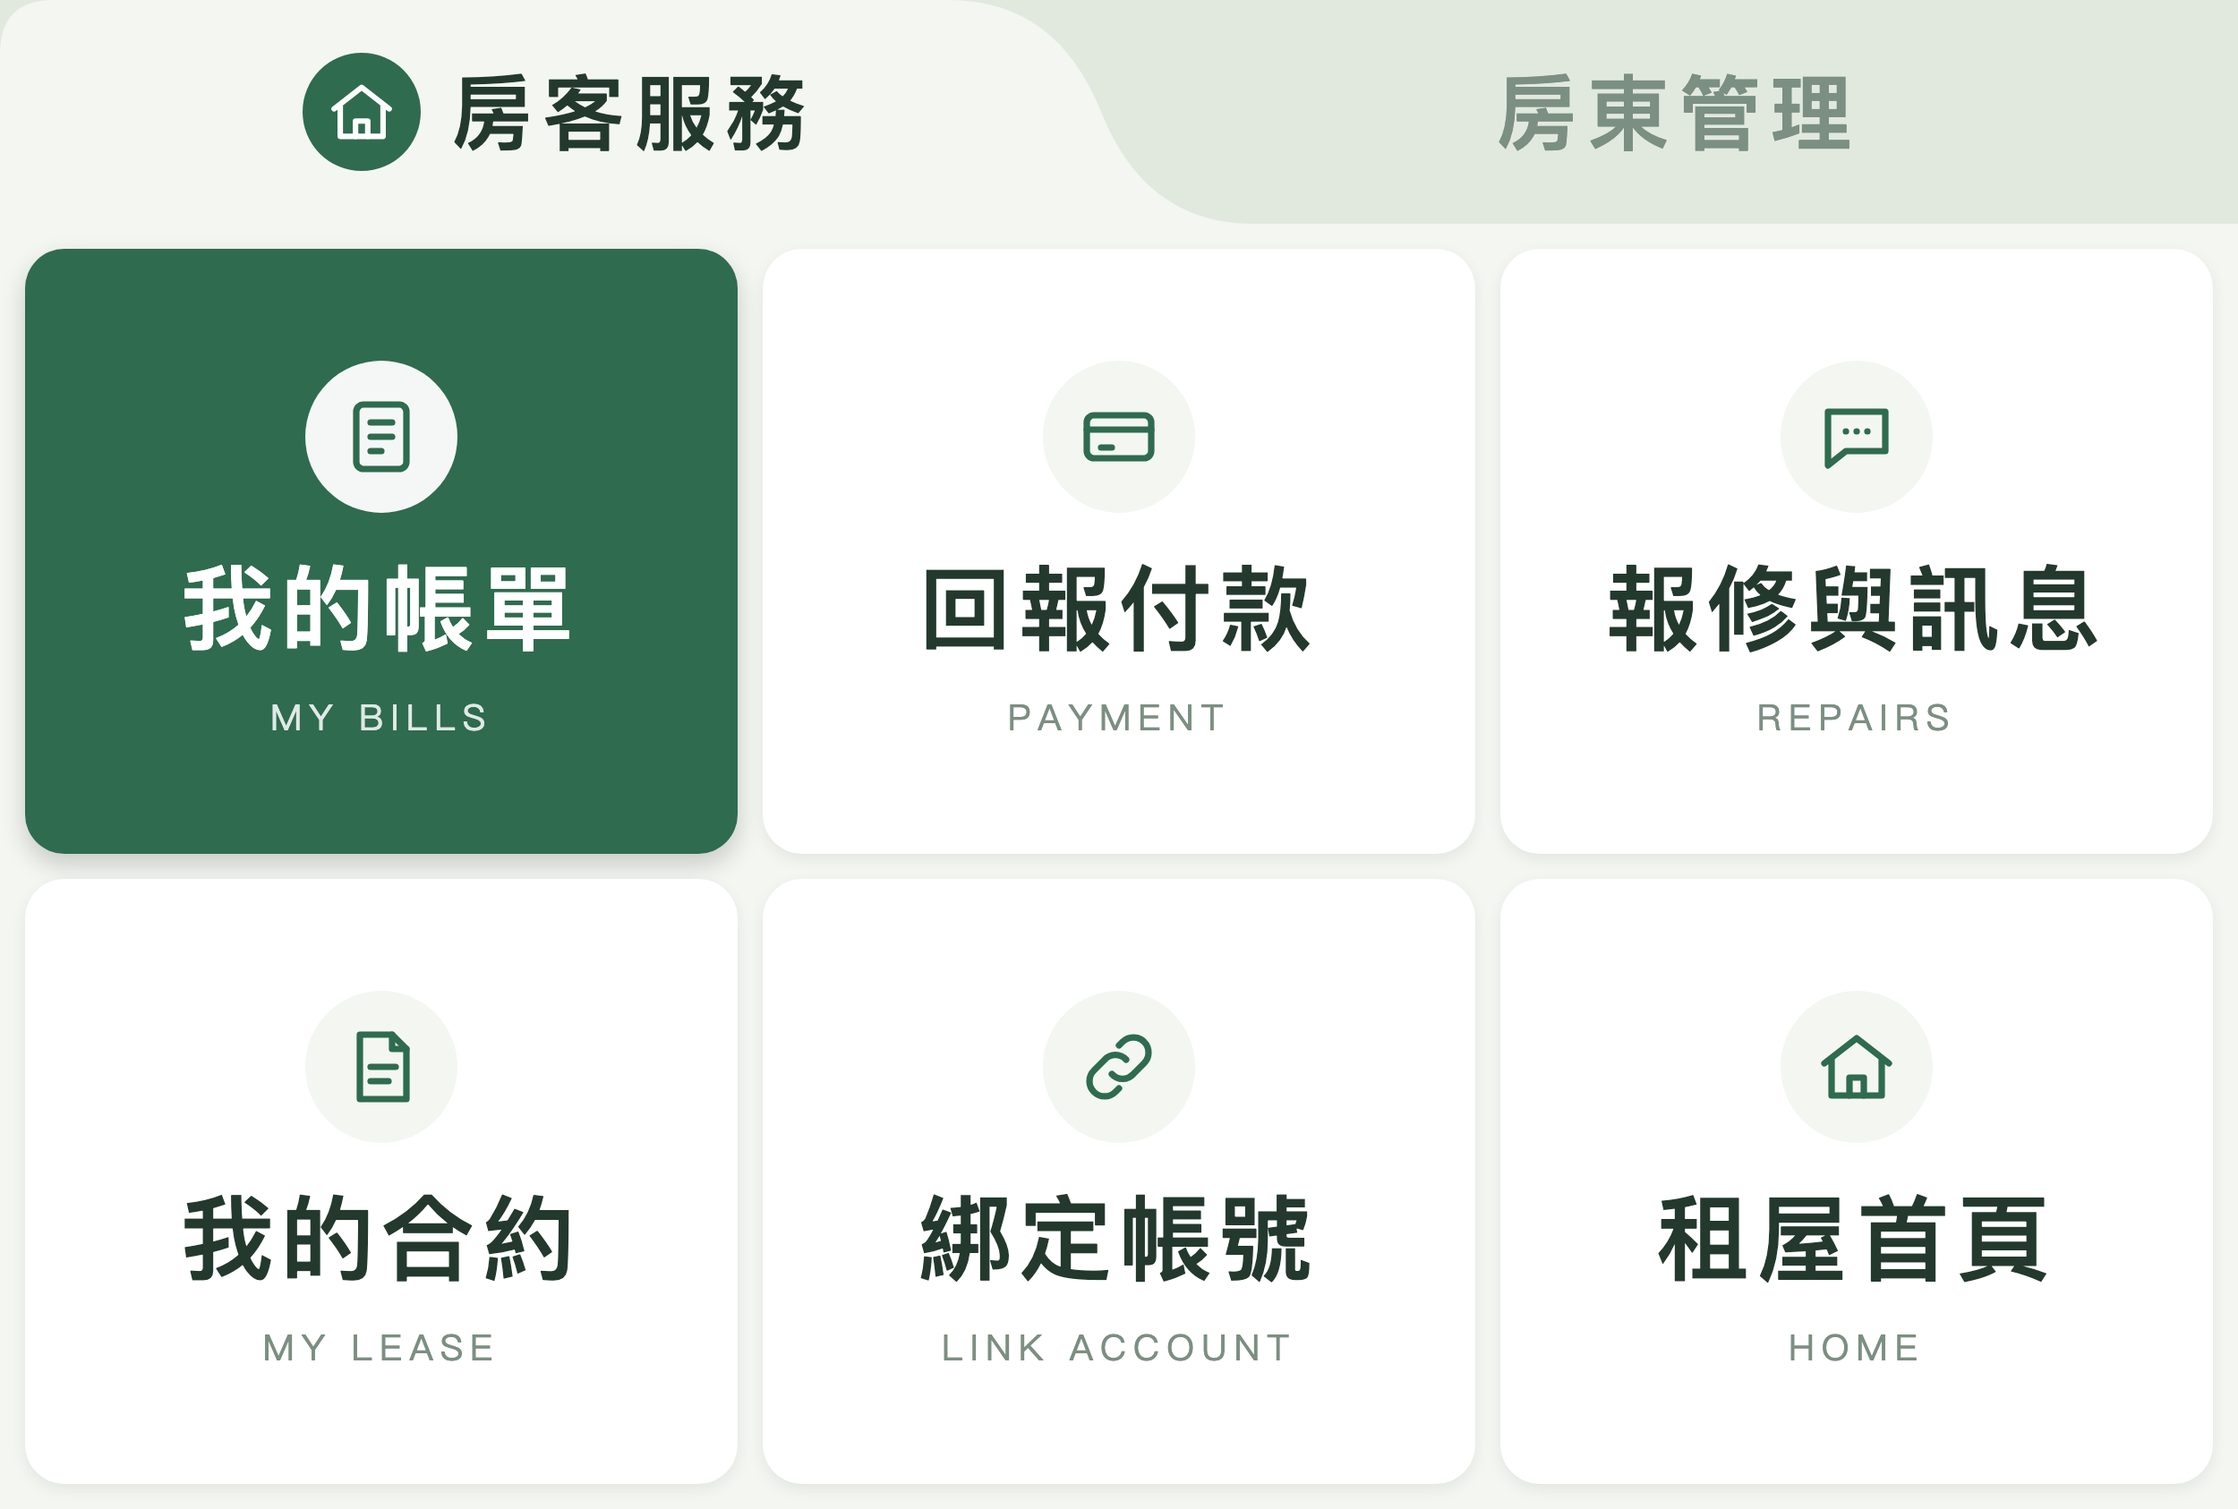
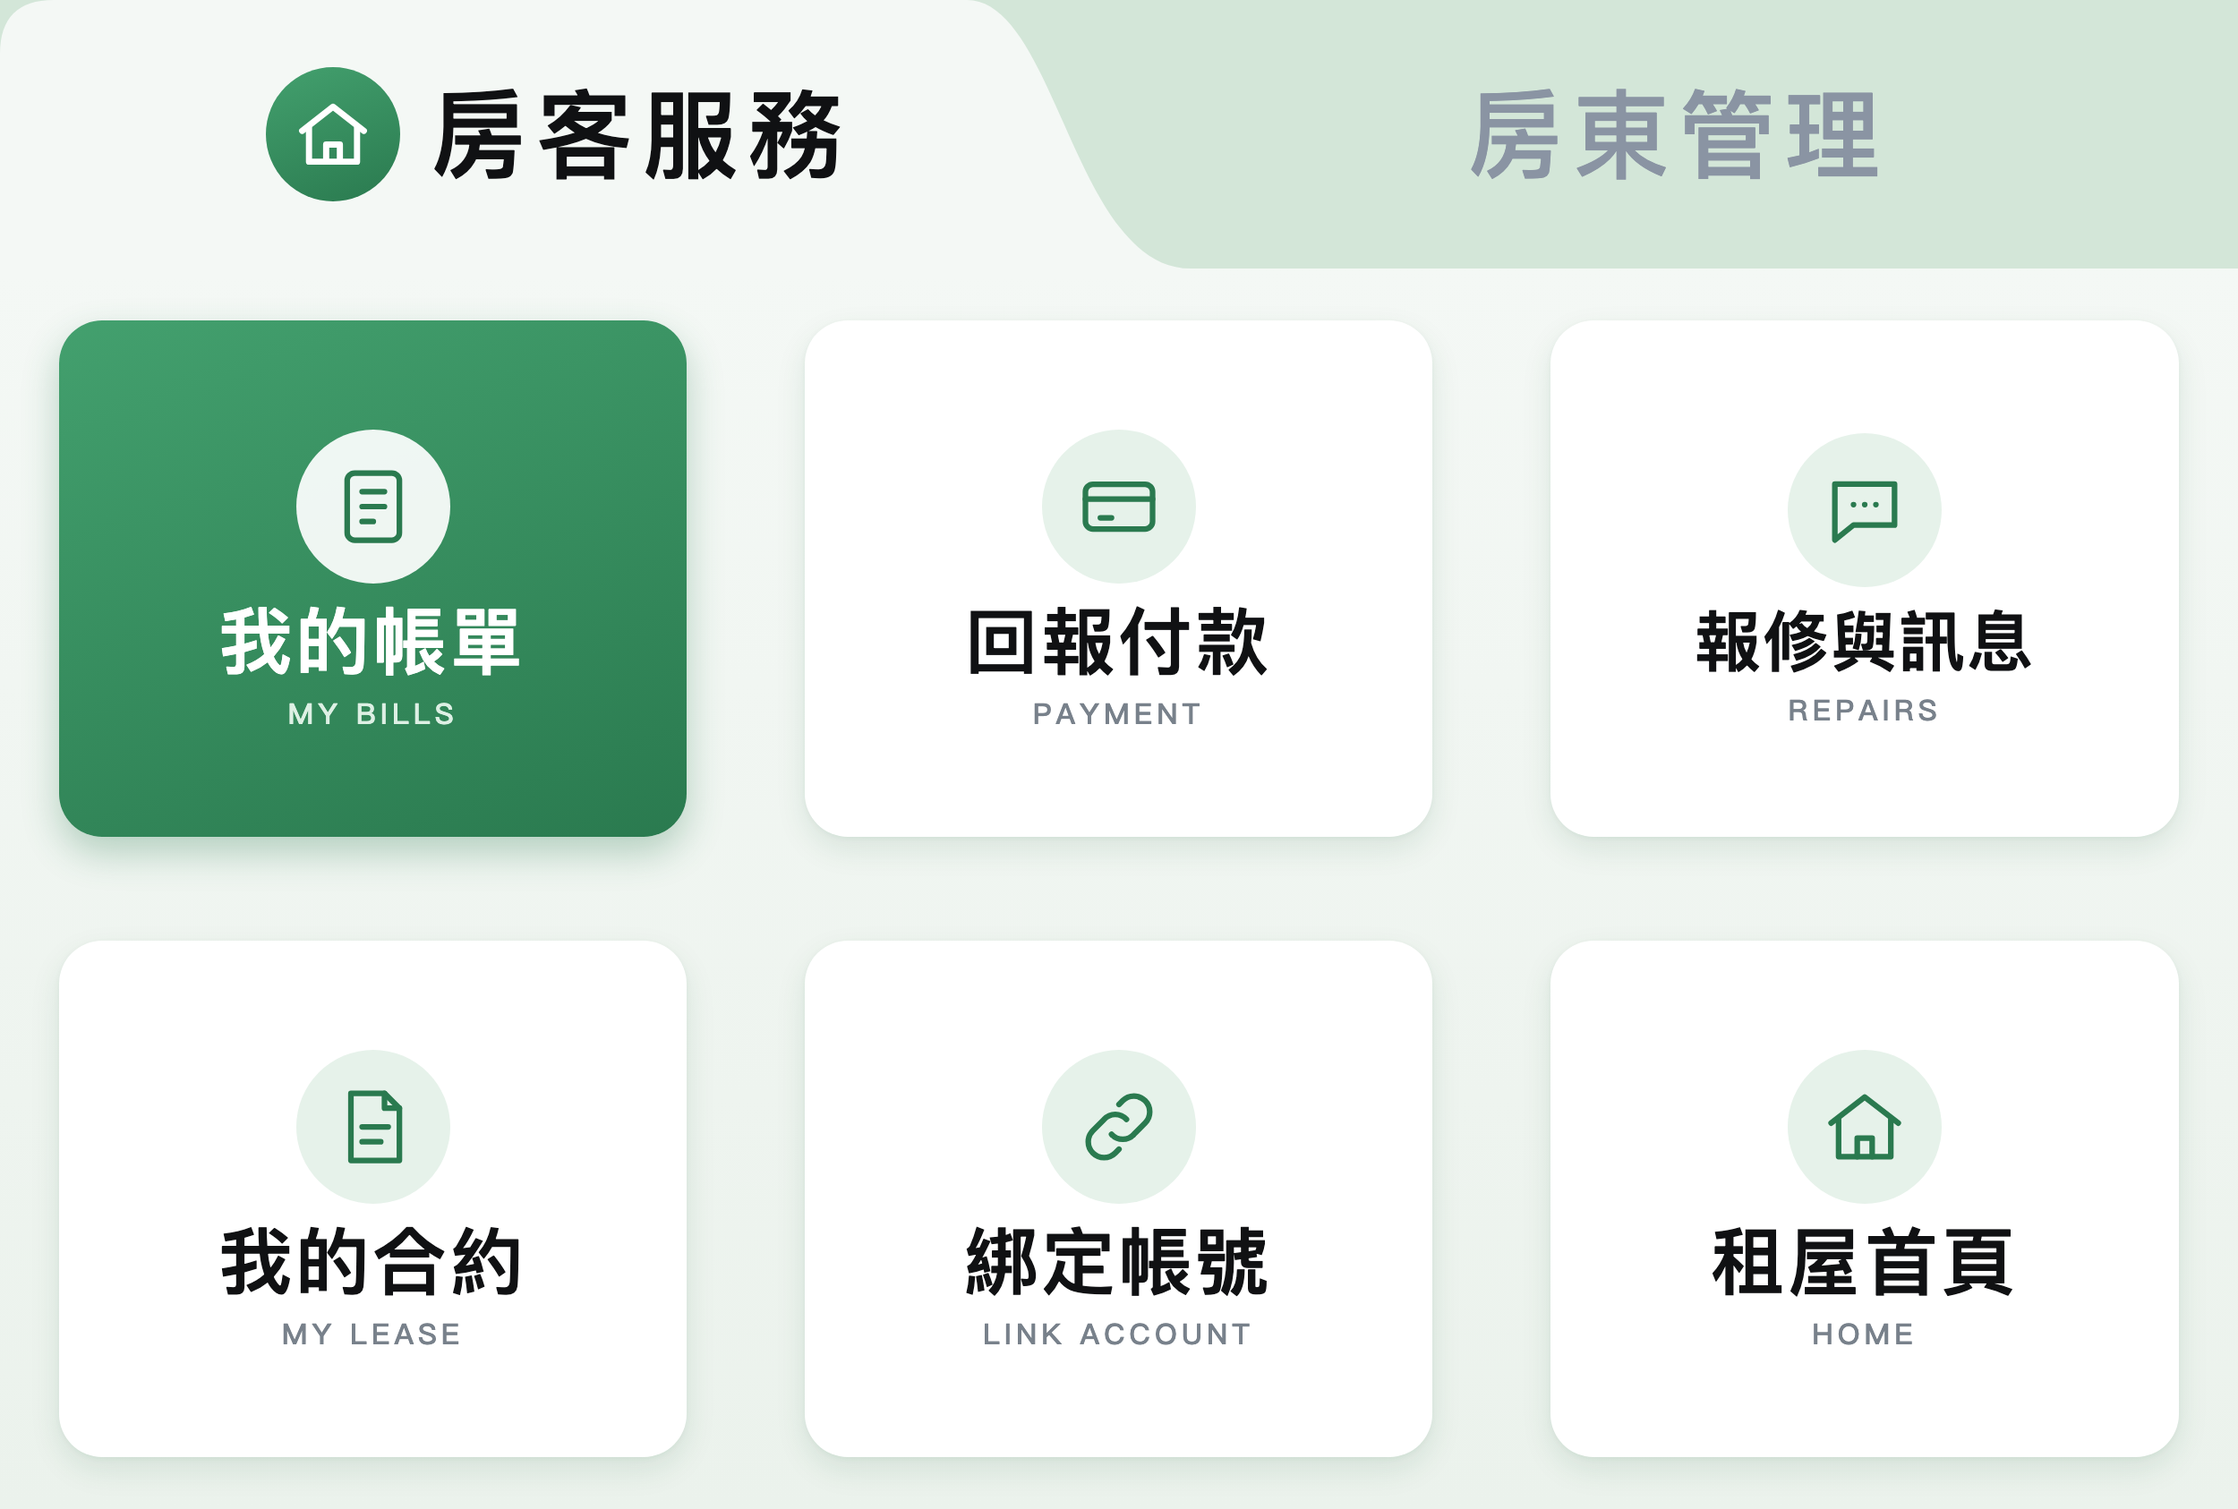
feat(v3): rich menu in the owner's tabbed format, checked after upload (修改單 D)
- Layout v2 from the owner's 2026-11-12 format (ported from the Libenest
  platform-tabbed menu): two 1250×300 tabs joined to their page colour by an
  S curve, 3×2 buttons of 833/833/834 × 693, white tiles with a gradient
  first tile, 100px line icons in 172px circles. Ocean is the default palette.
- Menus open by default (selected: true).
- After upload, each image is read back from LINE; a wrong size deletes it.

diff --git a/cloudflare/read-api/src/line-rich-menu.js b/cloudflare/read-api/src/line-rich-menu.js
@@ -24,13 +24,33 @@ async function deleteMenu(fetcher, token, menuId) {
 
 async function createMenu(fetcher, token, menu, liffId, image) {
   const created = await call(fetcher,'POST',api+'/v2/bot/richmenu',{ token, json:{
-    size:RICH_MENU_SIZE, selected:false, name:'CMWebs '+menu+' '+RICH_MENU_TEMPLATE,
+    size:RICH_MENU_SIZE, selected:true, name:'CMWebs '+menu+' '+RICH_MENU_TEMPLATE,
     chatBarText:RICH_MENUS[menu].chatBarText, areas:richMenuAreas(menu,liffId) } });
   const menuId = created.status === 200 ? String(created.data.richMenuId || '') : '';
   if (!menuId) stop('LINE_RICH_MENU_FAILED',502);
   const uploaded = await call(fetcher,'POST','https://api-data.line.me/v2/bot/richmenu/'+menuId+'/content',{ token, bytes:image, type:'image/png' });
   if (uploaded.status !== 200) { await deleteMenu(fetcher,token,menuId); stop('LINE_RICH_MENU_FAILED',502); }
-  return menuId;
+  const check = await downloadedImage(fetcher,token,menuId,menu,image);
+  if (!check) { await deleteMenu(fetcher,token,menuId); stop('LINE_RICH_MENU_IMAGE_INVALID',502); }
+  return { menuId, check };
+}
+
+// Reads the image back from LINE: 'identical' when the bytes match what was
+// uploaded, 're-encoded' when LINE stored another PNG of the same size or a
+// JPEG; '' (refused) when it cannot be read or a PNG has another size.
+async function downloadedImage(fetcher, token, menuId, menu, image) {
+  let response;
+  try {
+    response = await fetcher('https://api-data.line.me/v2/bot/richmenu/'+menuId+'/content',
+      { method:'GET', headers:{ Authorization:'Bearer '+token }, redirect:'manual', signal:AbortSignal.timeout(10000) });
+  } catch { return ''; }
+  if (response.status !== 200) return '';
+  const bytes = new Uint8Array(await response.arrayBuffer());
+  if (hex(await crypto.subtle.digest('SHA-256',bytes)) === hex(await crypto.subtle.digest('SHA-256',image))) return 'identical';
+  const png = bytes.length > 24 && bytes[0] === 0x89 && bytes[1] === 0x50;
+  if (!png) return bytes.length > 2 && bytes[0] === 0xff && bytes[1] === 0xd8 ? 're-encoded' : '';
+  const view = new DataView(bytes.buffer,bytes.byteOffset);
+  return view.getUint32(16) === RICH_MENU_SIZE.width && view.getUint32(20) === RICH_MENU_SIZE.height ? 're-encoded' : '';
 }
 
 // The tabs switch through aliases, so each alias must point at the current menu.
@@ -51,10 +71,13 @@ export async function publishMenus(db, channel, secrets, input, fetcher) {
   if (!Object.hasOwn(RICH_MENU_PALETTES,input.palette)) stop('INVALID_LINE_CHANNEL');
   const token = secrets.messaging_access_token;
   const images = { tenant:await menuImage('tenant',input.palette,fetcher), landlord:await menuImage('landlord',input.palette,fetcher) };
-  const tenant = await createMenu(fetcher,token,'tenant',channel.liff_id,images.tenant);
-  let landlord;
-  try { landlord = await createMenu(fetcher,token,'landlord',channel.liff_id,images.landlord); }
+  const first = await createMenu(fetcher,token,'tenant',channel.liff_id,images.tenant);
+  const tenant = first.menuId;
+  let second;
+  try { second = await createMenu(fetcher,token,'landlord',channel.liff_id,images.landlord); }
   catch (error) { await deleteMenu(fetcher,token,tenant); throw error; }
+  const landlord = second.menuId;
+  const imageCheck = { tenant:first.check, landlord:second.check };
   for (const [menu, menuId] of [['tenant',tenant],['landlord',landlord]]) {
     if (!await pointAlias(fetcher,token,RICH_MENUS[menu].alias,menuId)) {
       await deleteMenu(fetcher,token,tenant); await deleteMenu(fetcher,token,landlord); stop('LINE_RICH_MENU_FAILED',502);
@@ -81,7 +104,7 @@ export async function publishMenus(db, channel, secrets, input, fetcher) {
       landlord_menu_id=excluded.landlord_menu_id,updated_at=excluded.updated_at`)
     .bind(channel.workspace_id,input.palette,RICH_MENU_TEMPLATE,tenant,landlord,now()).run();
   if (old) { await deleteMenu(fetcher,token,old.tenant_menu_id); await deleteMenu(fetcher,token,old.landlord_menu_id); }
-  return { menus:publicMenus(await menuRow(db,channel.workspace_id)) };
+  return { menus:publicMenus(await menuRow(db,channel.workspace_id)), image_check:imageCheck };
 }
 
 async function link(db, channel, token, lineUserId, menu, fetcher) {

diff --git a/cloudflare/read-api/src/line-rich-menu-layout.js b/cloudflare/read-api/src/line-rich-menu-layout.js
@@ -1,16 +1,19 @@
 // V3 stage 6: the one standard rich menu, shared by every landlord. It has
 // two tabs that switch between each other: 房客服務 and 房東管理. Landlords
 // pick a palette; labels, pages and positions are the same for everyone.
-export const RICH_MENU_TEMPLATE = 'v1';
+// v2 (owner's format, 2026-11-12): tab bar 300 high with two 1250-wide tabs,
+// then 3×2 buttons of 833/833/834 × 693.
+export const RICH_MENU_TEMPLATE = 'v2';
 export const RICH_MENU_SIZE = { width:2500, height:1686 };
-export const RICH_MENU_TAB_HEIGHT = 250;
-// accent: the first card and icons; background: the card area; tabBar: the
-// inactive tab.
+export const RICH_MENU_TAB_HEIGHT = 300;
+export const RICH_MENU_COLUMNS = [0,833,1666,2500];
+// tone: [page 1 top, bottom], [page 2 top, bottom]; page 1 light, page 2 a bit
+// darker. primary: the first button's gradient. ocean is the reference look.
 export const RICH_MENU_PALETTES = {
-  forest:{ accent:'#2f6b4f', background:'#f3f6f1', tabBar:'#e1e9df', ink:'#23392e', muted:'#7b8f82' },
-  ocean:{ accent:'#2563c9', background:'#f2f6fb', tabBar:'#dfe8f4', ink:'#1f2f45', muted:'#7d8ca1' },
-  terracotta:{ accent:'#b4552f', background:'#faf5ef', tabBar:'#efe4d8', ink:'#3d2a20', muted:'#9a8476' },
-  charcoal:{ accent:'#3b4248', background:'#f5f5f3', tabBar:'#e4e4e1', ink:'#26292c', muted:'#868b8f' }
+  ocean:{ tone:[['#F4F7FB','#EBF0F7'],['#D2E0F5','#C6D7F0']], primary:['#2B85FF','#006BFF'], icon:'#006BFF', iconBg:'#EAF2FF', primarySub:'#DCEBFF', shadow:'0,60,140', glow:'0,107,255' },
+  forest:{ tone:[['#F4F8F5','#EBF2EC'],['#D3E6D8','#C6DECD']], primary:['#43A06E','#2A7A4F'], icon:'#2A7A4F', iconBg:'#E6F2EA', primarySub:'#DDF0E4', shadow:'20,90,50', glow:'42,122,79' },
+  terracotta:{ tone:[['#FBF6F2','#F5EDE6'],['#F1DCCD','#EBD0BE']], primary:['#E0845A','#C25E33'], icon:'#C25E33', iconBg:'#FBEDE5', primarySub:'#FBE3D6', shadow:'150,70,30', glow:'194,94,51' },
+  charcoal:{ tone:[['#F5F6F7','#ECEEF0'],['#DADDE1','#CED2D7']], primary:['#5A636D','#353C44'], icon:'#353C44', iconBg:'#EDEFF1', primarySub:'#DFE3E7', shadow:'30,40,50', glow:'53,60,68' }
 };
 // Each tab is its own rich menu, reached through an alias. Tenants and people
 // who have not bound yet open on the tenant tab (the default menu); landlords
@@ -30,14 +33,14 @@ export const RICH_MENU_ORDER = ['tenant','landlord'];
 export const RICH_MENU_SWITCH_DATA = 'cmwebs-tab:';
 
 export function richMenuAreas(menu, liffId) {
-  const width = RICH_MENU_SIZE.width, top = RICH_MENU_TAB_HEIGHT;
+  const width = RICH_MENU_SIZE.width, top = RICH_MENU_TAB_HEIGHT, row = (RICH_MENU_SIZE.height - top) / 2;
   const tabs = RICH_MENU_ORDER.map((name, index) => ({
     bounds:{ x:index * width / 2, y:0, width:width / 2, height:top },
     action:{ type:'richmenuswitch', label:RICH_MENUS[name].tab, richMenuAliasId:RICH_MENUS[name].alias, data:RICH_MENU_SWITCH_DATA+name } }));
-  const columns = [0,833,1667,2500], rows = [top,top+718,RICH_MENU_SIZE.height];
+  const columns = RICH_MENU_COLUMNS;
   const buttons = RICH_MENUS[menu].items.map(([label, page], index) => {
-    const column = index % 3, row = Math.floor(index / 3);
-    return { bounds:{ x:columns[column], y:rows[row], width:columns[column+1]-columns[column], height:rows[row+1]-rows[row] },
+    const column = index % 3;
+    return { bounds:{ x:columns[column], y:top + Math.floor(index / 3) * row, width:columns[column+1]-columns[column], height:row },
       action:{ type:'uri', label, uri:'https://liff.line.me/'+liffId+'/'+page } };
   });
   return [...tabs, ...buttons];

diff --git a/landlord-line-setup.html b/landlord-line-setup.html
@@ -59,12 +59,12 @@
 <p>所有房東使用同一套選單，您只能選配色。選單上方有「房客服務」「房東管理」兩個分頁，點一下就能切換。房客與還沒綁定的人打開時是「房客服務」；您與團隊成員用自己的 LIFF 開啟租管頁後，打開時會是「房東管理」。</p>
 <p id="menu-state"></p>
 <div role="radiogroup" aria-label="選單配色" id="palettes">
-<label class="check"><input type="radio" name="palette" value="forest" checked><span>森林綠</span></label>
-<label class="check"><input type="radio" name="palette" value="ocean"><span>海洋藍</span></label>
+<label class="check"><input type="radio" name="palette" value="ocean" checked><span>海洋藍（標準）</span></label>
+<label class="check"><input type="radio" name="palette" value="forest"><span>森林綠</span></label>
 <label class="check"><input type="radio" name="palette" value="terracotta"><span>陶土紅</span></label>
 <label class="check"><input type="radio" name="palette" value="charcoal"><span>炭灰</span></label>
 </div>
-<p><img id="menu-preview" alt="租屋服務選單預覽" src="assets/line-rich-menu/tenant-forest.png" style="width:100%;border-radius:8px"></p>
+<p><img id="menu-preview" alt="租屋服務選單預覽" src="assets/line-rich-menu/tenant-ocean.png" style="width:100%;border-radius:8px"></p>
 <button type="button" id="menu-publish">發布選單（還不會換掉房客的選單）</button>
 <p>發布後，可以先用手機開啟第 4 步的連結，只在自己的 LINE 試看。確認沒問題再設為所有人的預設選單。</p>
 <label class="check"><input type="checkbox" id="menu-confirm"><span>我已試看過，同意把這套選單設為官方帳號所有好友的預設選單（打開時是「房客服務」）。</span></label>
@@ -198,7 +198,8 @@
   $('activate').addEventListener('click',()=>run($('activate'),async()=>{channel=await call('landlord_line_setup_activate');say('已啟用。');}));
   document.querySelectorAll('input[name=palette]').forEach(input=>input.addEventListener('change',()=>{$('menu-preview').src='assets/line-rich-menu/tenant-'+input.value+'.png';}));
   $('menu-publish').addEventListener('click',()=>run($('menu-publish'),async()=>{
-    say('發布中…');showMenus(await call('landlord_line_setup_menu_publish',{palette:document.querySelector('input[name=palette]:checked').value}));say('選單已發布。');
+    say('發布中…');const published=await call('landlord_line_setup_menu_publish',{palette:document.querySelector('input[name=palette]:checked').value});showMenus(published);
+    const check=published.image_check||{};say('選單已發布。'+(check.tenant==='identical'&&check.landlord==='identical'?'已從 LINE 讀回圖片，和預覽完全相同。':'已從 LINE 讀回圖片，尺寸正確。'));
   }));
   $('menu-default-on').addEventListener('click',()=>run($('menu-default-on'),async()=>{
     if(!$('menu-confirm').checked){say('請先勾選確認。');return;}

diff --git a/cloudflare/read-api/src/line-rich-menu-images.js b/cloudflare/read-api/src/line-rich-menu-images.js
@@ -1,15 +1,15 @@
 // Generated by scripts/generate-line-rich-menu-images.mjs. Do not edit.
 export const RICH_MENU_IMAGE_SHA256 = {
   "tenant": {
[8 lines of base64/hex data omitted]
   },
   "landlord": {
[8 lines of base64/hex data omitted]
   }
 };

diff --git a/frontend-release.js b/frontend-release.js
@@ -5,7 +5,7 @@
  */
 window.CMWEBS_RELEASE_VERSION = '20261112-assistant-chat-v1';
 // Generated comparison identity survives flags-only asset publications.
-window.CMWEBS_READ_COMPARISON_VERSION = "read-08845254998e48c9696c2a7c0a453385be07d686341309665363cf97b92aa409";
+window.CMWEBS_READ_COMPARISON_VERSION = "read-1bfb02c46b5d54edd16e3e3ed90f9ced33e663e594f4a7eb2e36a8a6ecd42a4a";
 
 // Publish one verified endpoint here only after preceding release gates pass.
 window.CMWEBS_READ_API_URL = 'https://cmwebs-read-api.buyhotart.workers.dev';

diff --git a/docs/04-API-ROUTES.md b/docs/04-API-ROUTES.md
@@ -1645,3 +1645,14 @@ and the message quota and consumption. The answer has counts only:
 `tenants`/`team` `{total, friends, not_friends, unknown}`, `former_tenants`
 (bound tenants whose account status is not active; not checked),
 `shared_with_other_workspaces`, `quota_type`, `quota_limit`, `quota_used`.
+
+Rich menu format v2 (owner, 2026-11-12, replaces the v1 card style): 2500×1686;
+two 1250×300 tabs; 3×2 buttons of 833/833/834 × 693; menus are created with
+`selected: true`. The look is ported from the Libenest platform-tabbed menu
+(`scripts/generate-line-rich-menu-images.mjs`); `ocean` is the reference palette
+and the wizard's default. Menus published as v1 are replaced on the next publish.
+After uploading each image, `publish_menus` reads it back from
+`api-data.line.me/.../content` and returns `image_check` per menu: `identical`
+(same bytes) or `re-encoded` (a JPEG, or a PNG of the menu size). An unreadable
+image or a PNG of another size deletes the new menu and answers
+`LINE_RICH_MENU_IMAGE_INVALID`.

diff --git a/docs/09-TEST-MATRIX.md b/docs/09-TEST-MATRIX.md
@@ -5209,4 +5209,5 @@ sign-out was not run; the preview used stubs.
 - [x] `tests/line-multi-login.test.mjs`：把 W000001 移出允許清單即改回 @cmwebs 發送，登入照常，且不查 Registry
 - [x] `tests/line-setup-route.test.mjs`：建立 LIFF 時帶 Workspace；原本頻道只替 W000001 自己的成員掛房東選單；搬家前檢查分批、只回人數；啟用時清除快取
 - [x] `tests/landlord-line-setup-page.test.mjs`：搬家前檢查按鈕只顯示人數
+- [x] `cloudflare/read-api/test/line-rich-menu.test.mjs`：選單 v2 版型（負責人 11/12 格式）：兩個 1250×300 分頁、3×2 按鈕 833/833/834 × 693、預設展開；上傳後從 LINE 讀回圖片比對，尺寸不符就刪除選單
 - [ ] 真實 Provider、好友數與額度、切換與回退（`HUMAN_REQUIRED`）
